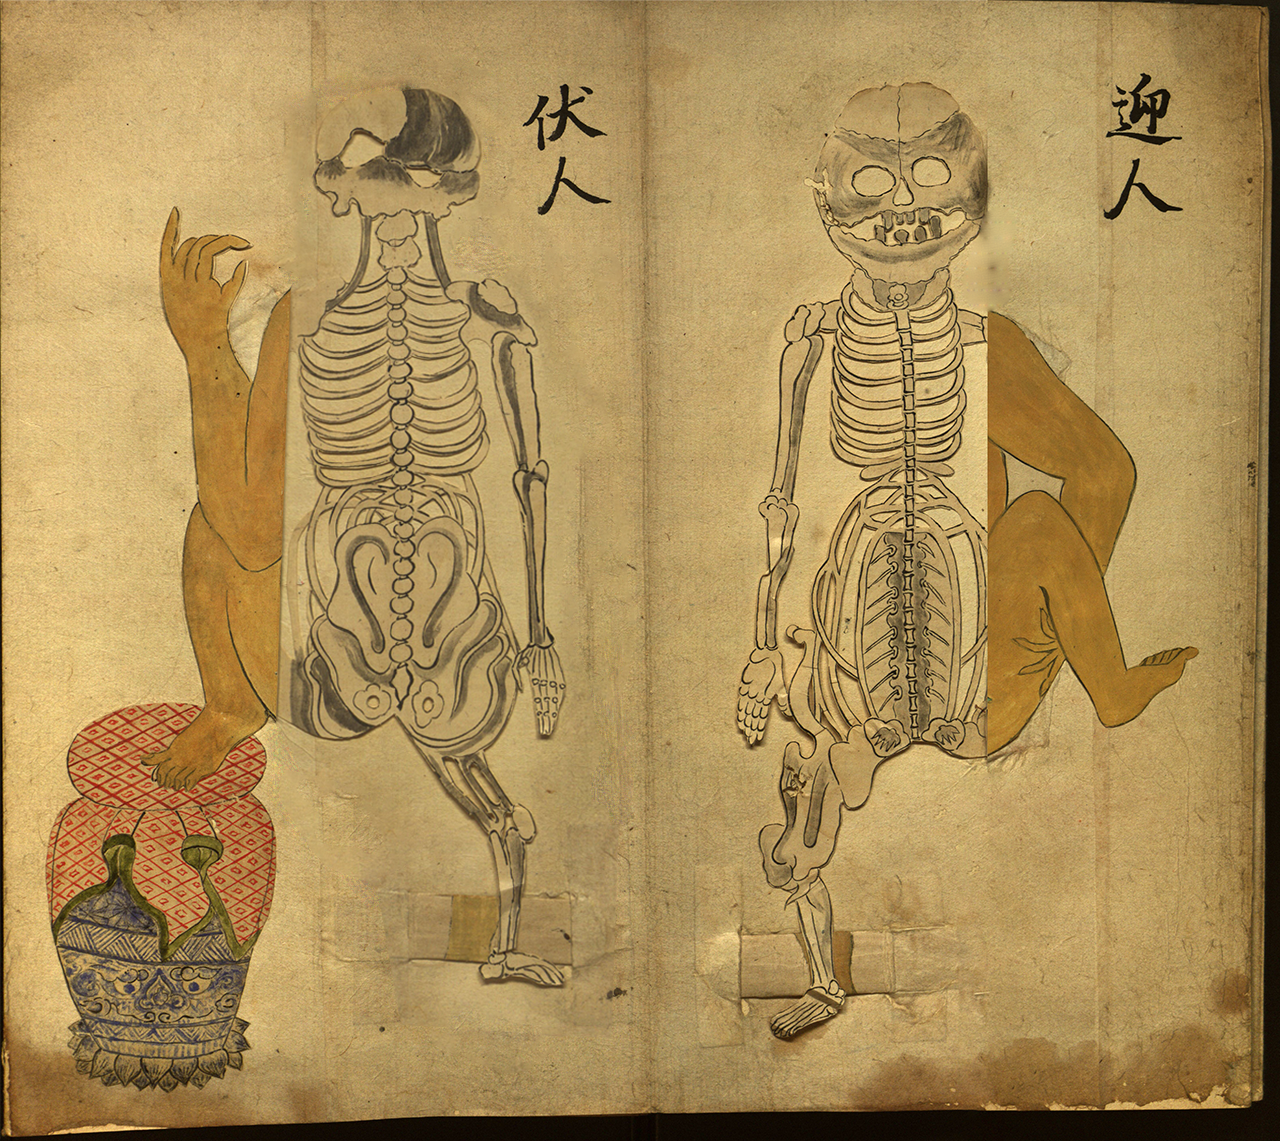
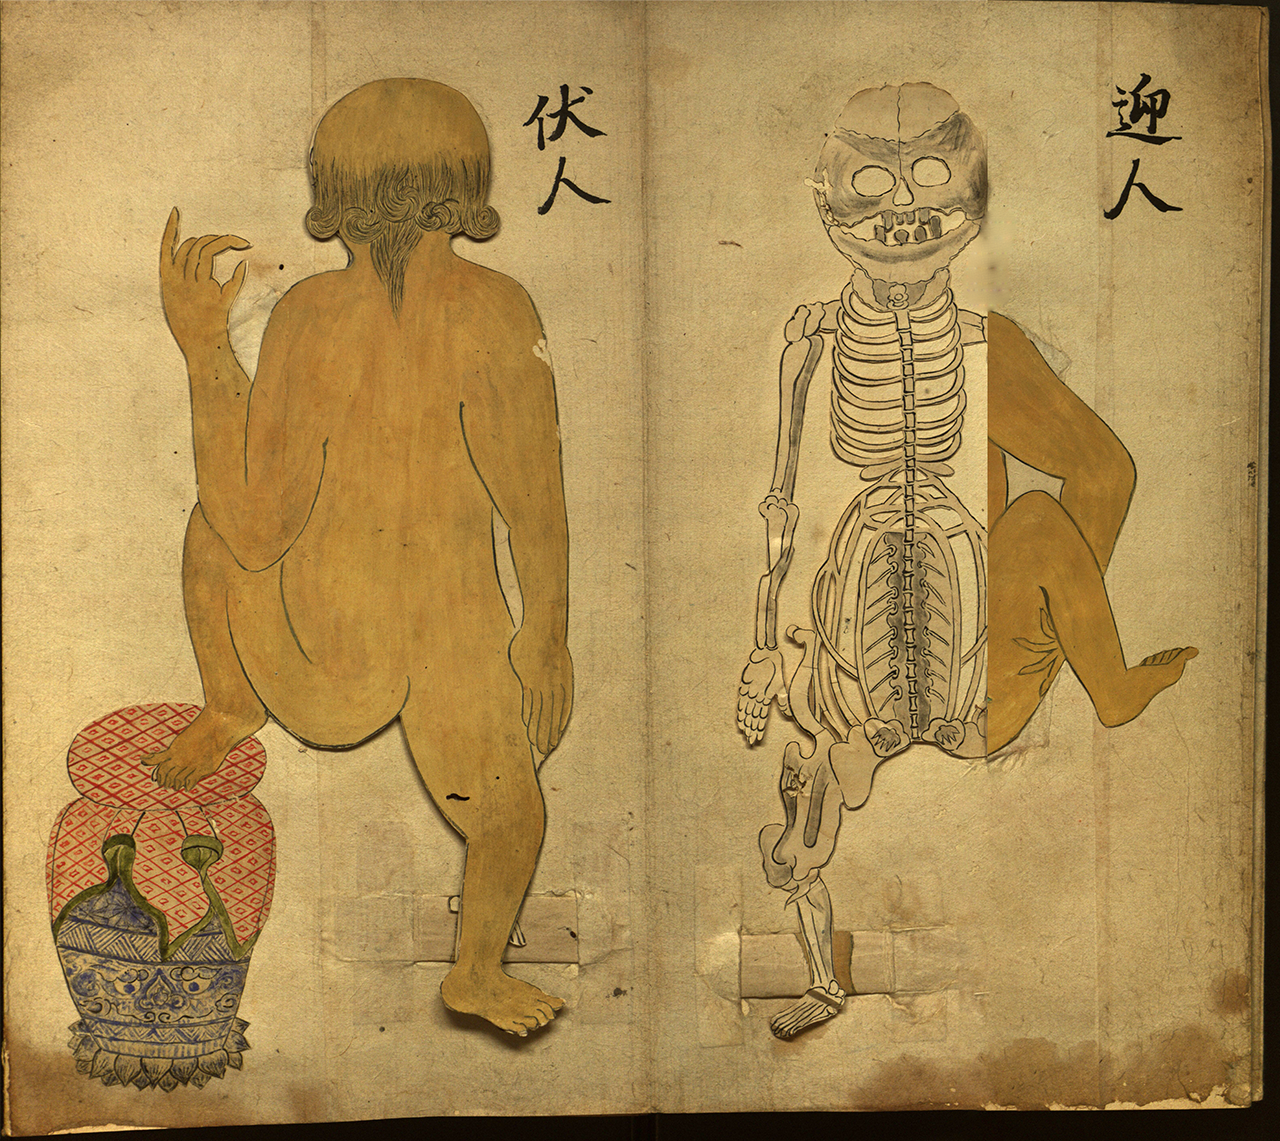
reverted back to single diagram, removed unused flap diagram

Changed region(s): [[0.1875, 0.0613, 0.5, 0.9202]]

diff --git a/assets/scripts/flapsheet-embed.js b/assets/scripts/flapsheet-embed.js
@@ -14,24 +14,18 @@ $(document).ready(function(){
         'perspective:': FlapConfiguration.background.width
     });
 
-
     var flipDir = FlapConfiguration['flip-dir'];
     var baseUrl = FlapConfiguration['base-url'];
-
-    var flipDir2 = FlapConfiguration2['flip-dir'];
-    var baseUrl2 = FlapConfiguration2['base-url'];
 
     $wrapper.addClass('flip-dir-' + flipDir);
 
     // Clear out any HTML currently in the target .flip-up element. This ensures we start
     // with a clean slate.
-    $wrapper.find('#firstDiagram').empty();
-    $wrapper.find('#secondDiagram').empty().addClass('flip-dir-' + flipDir2);
+    $wrapper.find('.flip-up').empty();
 
     // Mustache is a template system that allows you to specify dynamic markup within HTML.
     // You can find the template referred to here by searching in FlapAnatomy.htm for component-markup
     var componentTemplate = $('#component-markup').html();
-    var componentTemplate2 = $('#component-markup2').html();
 
     var idx=1;
     // Loop over each component within our configuration file
@@ -54,56 +48,20 @@ $(document).ready(function(){
         .data('desc', component.desc);
 
         // Append the generated markup to the .flip-up div
-        $wrapper.find('#firstDiagram').append($markup);
+        $wrapper.find('.flip-up').append($markup);
 
         idx++;
     };
+
     // The last component is just an empty Mustache template that doesn't have any images.
     $lastComponent = Mustache.render(componentTemplate, {'idx': idx});
+    $wrapper.find('.flip-up').append($lastComponent);
 
-    $wrapper.find('#firstDiagram').append($lastComponent);
-
-
-    // re run loop for second set of flaps
-    var idx=1;
-    // Loop over each component within our configuration file
-    for(var flap in FlapConfiguration2.components) {
-        var component = FlapConfiguration2.components[flap];
-        // Create the HTML markup for this component.
-        var $markup = $(Mustache.render(componentTemplate2, {'baseUrl': baseUrl2, 'idx': idx, 'component': component}));
-
-        // Apply custom CSS specific to this component. It's necessary to ensure proper positioning
-        // and scaling of the components.
-        $markup.css({
-            top: component.y + '%',
-            left: component.x + '%',
-            height: component.h + '%',
-            maxHeight: component.h + '%',
-            width: component.w + '%'
-        })
-        // Configure the first flap as the 'active' flap. That is, the one that will receive clicks
-        .toggleClass('active', idx==1)
-        .data('desc', component.desc);
-
-        // Append the generated markup to the .flip-up div
-        $wrapper.find('#secondDiagram').append($markup);
-
-        idx++;
-    };
-
-    // The last component is just an empty Mustache template that doesn't have any images.
-    $lastComponent2 = Mustache.render(componentTemplate2, {'idx': idx});
-
-    $wrapper.find('#secondDiagram').append($lastComponent2);
 
 	  var index = 0,
 		currentActive = 0,
 		components = [];
-    components2 = [];
-    var first = true;
 
-    // tracks which spread the user is viewing
-    var side;
     // use retButton to verify where the autoFlip call is coming from
     var retButton = false;
 
@@ -122,10 +80,10 @@ $(document).ready(function(){
       }
     }
 
+    // depending on id, call autoFlip with different parameter
     function clickIndicator(id){
         var id = id.slice(2);
         console.log("indicator clicked: " + id);
-        // magic happens that switches to the flap with id=id
 
         if (id == "zero"){
           autoFlip(0,currentActive);
@@ -174,7 +132,6 @@ $(document).ready(function(){
     });
 
 
-
     // Create a new pseudo-class to represent a component. This will allow for better handling
     // of click events in a structured way.
     var Component = function( elem , figure ){
@@ -204,54 +161,28 @@ $(document).ready(function(){
           updateCurrentActive('down', figure);
       }
       });
-      if (first == true && index <= 6){
-        index++;
-      }
-      if (index == 7 && first == true) {
-        first = false;
-        index = 0;
-      }
-      else if (first == false){
-        index++;
-      }
+      index++;
 	}
 
 	var i = 1;
   // Initialize the component list, creating the pseudo-class described above for
   // each component found
-	while( $('#firstDiagram .component-' + i).length){
+	while( $('.component-' + i).length){
 	     var component = new Component( 'component-' + i );
        components.push(component);
 		   i++;
 	}
 
-  var j = 1;
-  // Initialize the component list, creating the pseudo-class described above for
-  // each component found
-	while( $('#secondDiagram .component-' + j).length){
-	     var component = new Component( 'component-' + j );
-       components2.push(component);
-		   j++;
-	}
-
-  console.log(components);
-  console.log(components2);
-
   // Helper method for configuring the current active state. currentActive is just maintaining
   // the index of the currently-active component
 	function updateCurrentActive( direction , timeout ){
-    var component;
-    if (side == "left"){
-        component = components2[currentActive];
-    } else {
       component = components[currentActive];
-    }
+
       // check if the indicators are hidden, if they are this means the
-      // user has clicked a flap instead of clicking the button to decide the spread
+      // user has clicked a flap instead of clicking the start button
       // if retButton is true we do not want to to execute this code because it has already been done
-      // ** figure out how to determine which spread they clicked on ** (right now assuming right)
       if (($("#indicators").hasClass('hidden section') == true) && retButton == false){
-          // a button was not clicked, hide buttons and show indicators and description text
+          // hide startup screen
           $("#startup").addClass("hidden section");
           // show flap information and indicators
           $("#panel-text").removeClass("hidden section");
@@ -264,16 +195,12 @@ $(document).ready(function(){
       autoDrag( component , direction, timeout);
 
 
-      // find out which side was flipped
-      if (($(".flipped").hasClass("right")) == true){side = "right";}
-      if (($(".flipped").hasClass("left")) == true){side = "left";}
-
           if( direction == 'up'  && currentActive < components.length-1 ){
               currentActive++;
-              changeDescription(side);
+              changeDescription();
           } else if (direction == 'down' ){
               currentActive--;
-              changeDescription(side);
+              changeDescription();
           }
 	}
 
@@ -307,6 +234,8 @@ $(document).ready(function(){
        This method is reversed when you click on the back of the flap to reveal the flap itself.
      */
 	function autoDrag( component , direction , timeout ){
+      // if timeout is 0 then this function is getting called from autoFlip
+      // in this case we will not use any timeouts
       if ((timeout == 0) && (direction=="up")) {
         component.self.addClass('flipped');
         component.self.removeClass('active').css('z-index', 1000 );
@@ -351,12 +280,8 @@ $(document).ready(function(){
 
     $(".flap-info").css({'height': FlapConfiguration.background.height});
 
-    // user will select either the left or right spread
-    $("#left").on( "click", function() {
-        side = "left";
-        changeDescription(side);
-    });
-    $("#right").on( "click", function() {
+    // when the start button is clicked execute this code
+    $("#start").on( "click", function() {
         // hide startup elements
         $("#startup").addClass("hidden section");
         // show flap information and indicators
@@ -365,13 +290,12 @@ $(document).ready(function(){
         // show the return button
         $("#return").removeClass("hidden section");
         // fill in flap information
-        side = "right";
-        changeDescription(side);
+        changeDescription();
     });
 
+    // when the return button is clicked execute this code
     $("#return-button").on( "click", function() {
-        // reset the side variable to be empty , hide indicators/text/return-button
-        side = "";
+        // hide indicators/panel-text/return-button
         retButton = true;
         $("#panel-text").addClass("hidden section");
         $("#indicators").addClass("hidden section");
@@ -406,14 +330,9 @@ $(document).ready(function(){
     }
   }
 
-  // dynamically change text in description
-  // depends completely on which spread is being viewedss
-  function changeDescription(side) {
+  // dynamically change text in description, depends completely on which spread is being viewed
+  function changeDescription() {
       var selector = components[currentActive].index;
-      if (side === "left") {
-        console.log("viewing the left spread ...");
-      }
-      if (side === "right"){
         // we have 5 flaps, bottom layer=6 so it gets custom text
         var customText = "<h1>Last Component</h1>";
         if (selector != 6){
@@ -468,6 +387,5 @@ $(document).ready(function(){
           $("#i_six").css('color', 'yellow');
           removeIndicators(6);
         }
-      }
   }
 });

diff --git a/FlapAnatomy.htm b/FlapAnatomy.htm
@@ -8,7 +8,6 @@
 <link rel="stylesheet" href="assets/css/flapsheet-embed.css">
 <script src="assets/scripts/mustache.min.js"></script>
 <script src="Components/diagram1/flap-configuration.js"></script>
-<script src="Components/diagram2/flap-configuration2.js"></script>
 <script type="x-tmpl-mustache" id="component-markup">
     <div class="flip-up-component-wrapper component-{{idx}}{{^component}} last{{/component}} right" id="component-{{idx}}">
         {{#component}}
@@ -24,22 +23,6 @@
         {{/component}}
     </div>
 </script>
-<script type="x-tmpl-mustache" id="component-markup2">
-    <div class="flip-up-component-wrapper component-{{idx}}{{^component}} last{{/component}} left" id="component-{{idx}}">
-        {{#component}}
-        <div class="flipper">
-            <div class="front flip-up-component">
-                <img src="{{baseUrl}}/{{component.src}}" class="component-img" />
-                <img src="{{baseUrl}}/{{component.border_src}}" class="component-border" />
-            </div>
-            <div class="back flip-up-back">
-                <img src="{{baseUrl}}/{{component.shadow_src}}"/>
-            </div>
-        </div>
-        {{/component}}
-    </div>
-</script>
-
 
 <!-- feature detection for HTML5/CSS3 -->
 <script src="assets/scripts/flapsheet-embed.js"></script>
@@ -48,8 +31,7 @@
 </head>
 <body>
     <div class="flip-up-wrapper">
-        <div class="flip-up" id="firstDiagram"></div>
-        <div class="flip-up" id="secondDiagram"></div>
+        <div class="flip-up"></div>
     </div>
     <div class="flap-info">
         <div class="hidden section" id="indicators">
@@ -92,9 +74,8 @@
           <button type="button" id="return-button"> go back to selection screen </button>
       </div>
       <div id="startup">
-          <p> which spread would you like to view ? </p>
-          <button type="button" id="left"> left diagram </button>
-          <button type="button" id="right"> right diagram </button>
+          <p> flap anatomy startup screen </p>
+          <button type="button" id="start"> start </button>
       </div>
     </div>
 </body>
